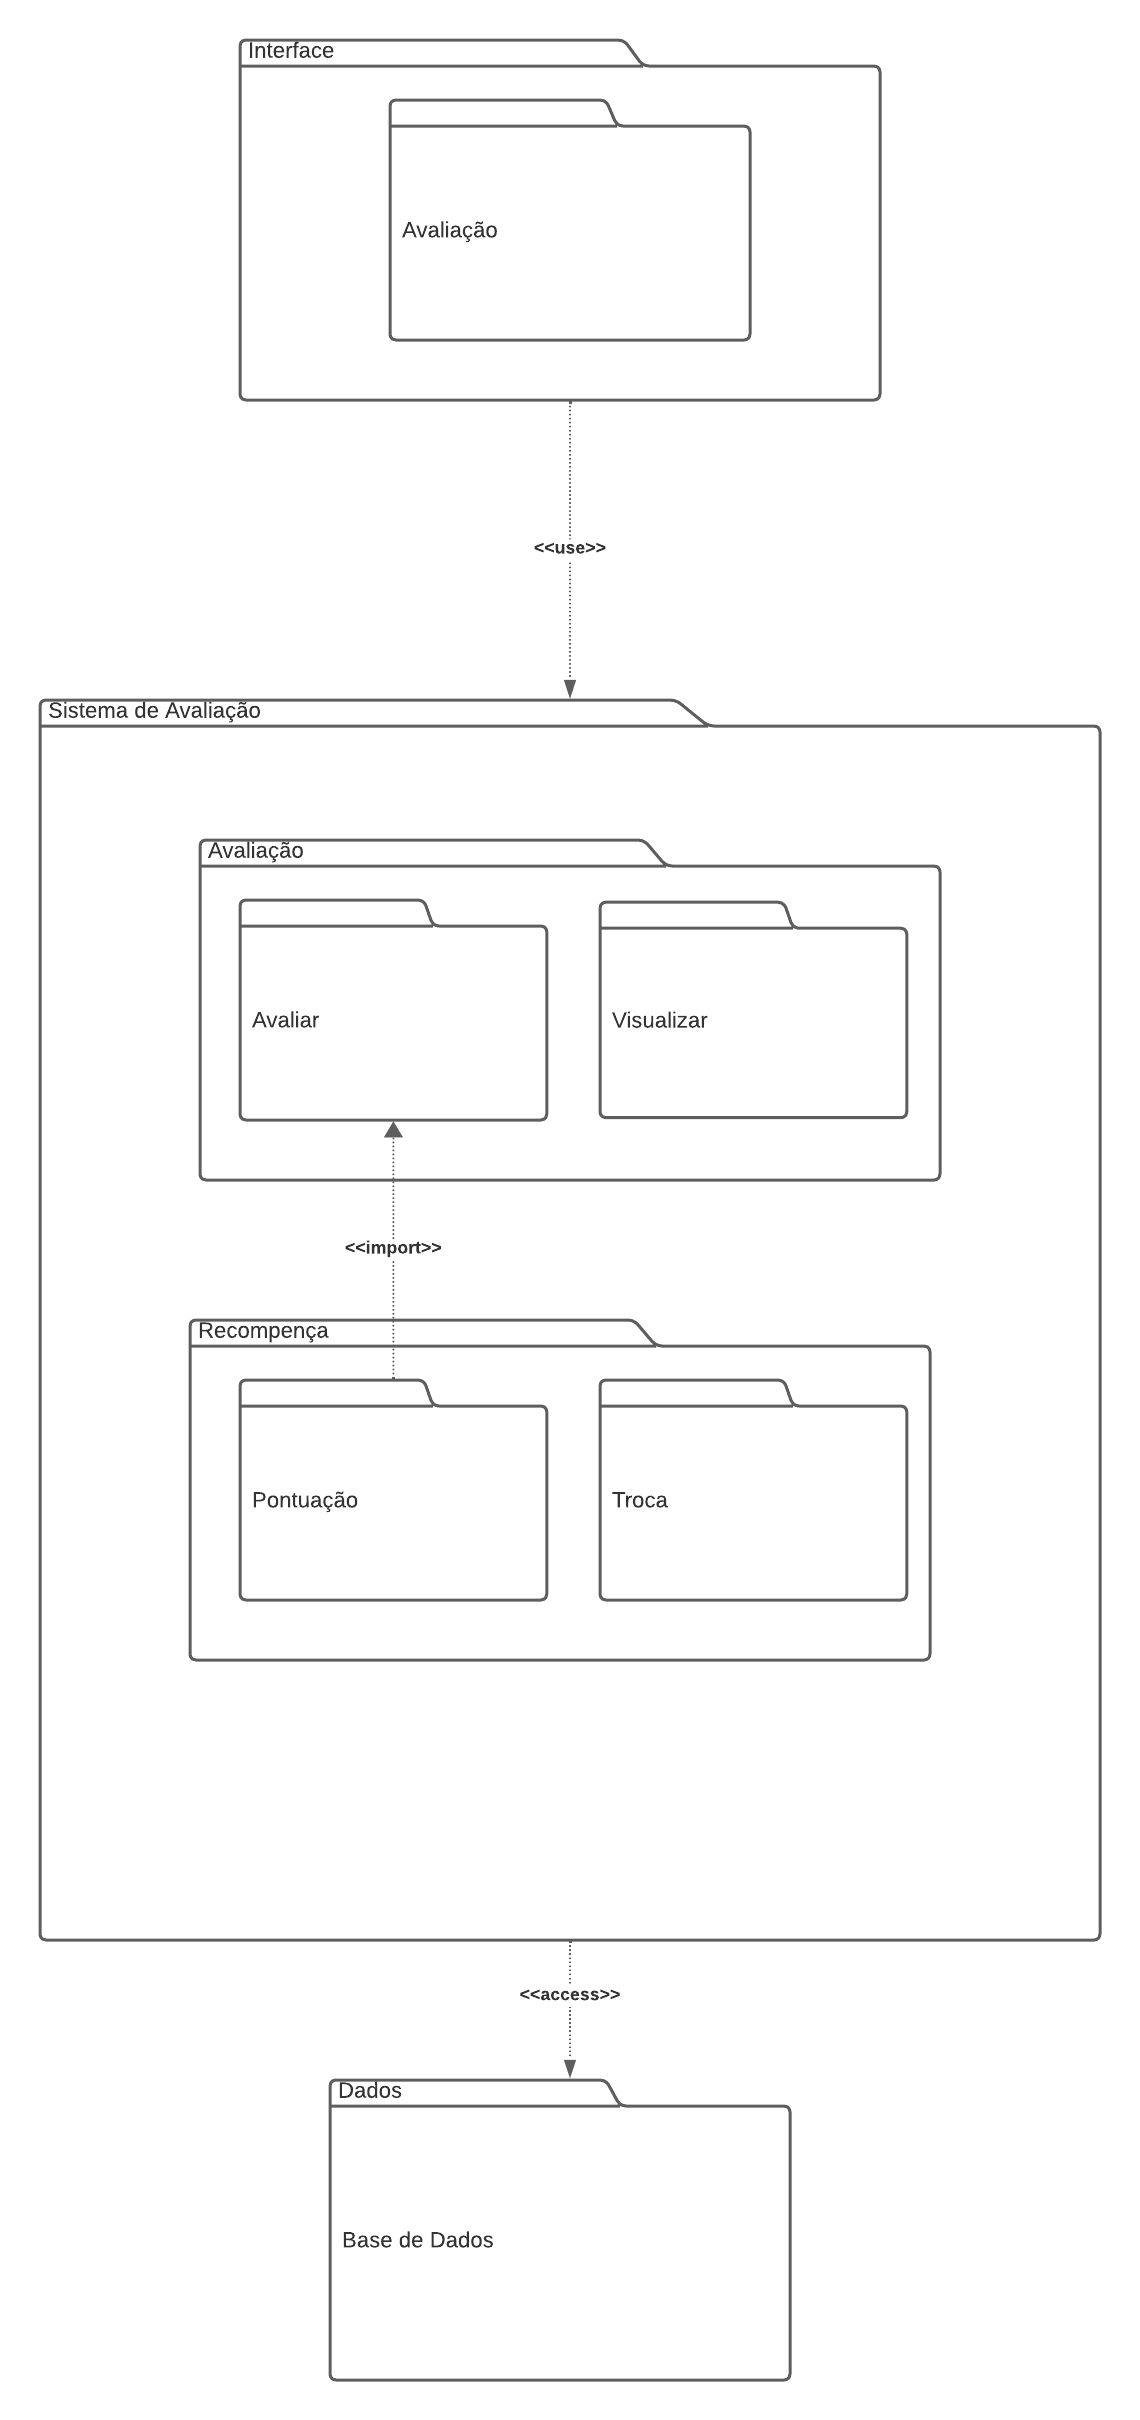
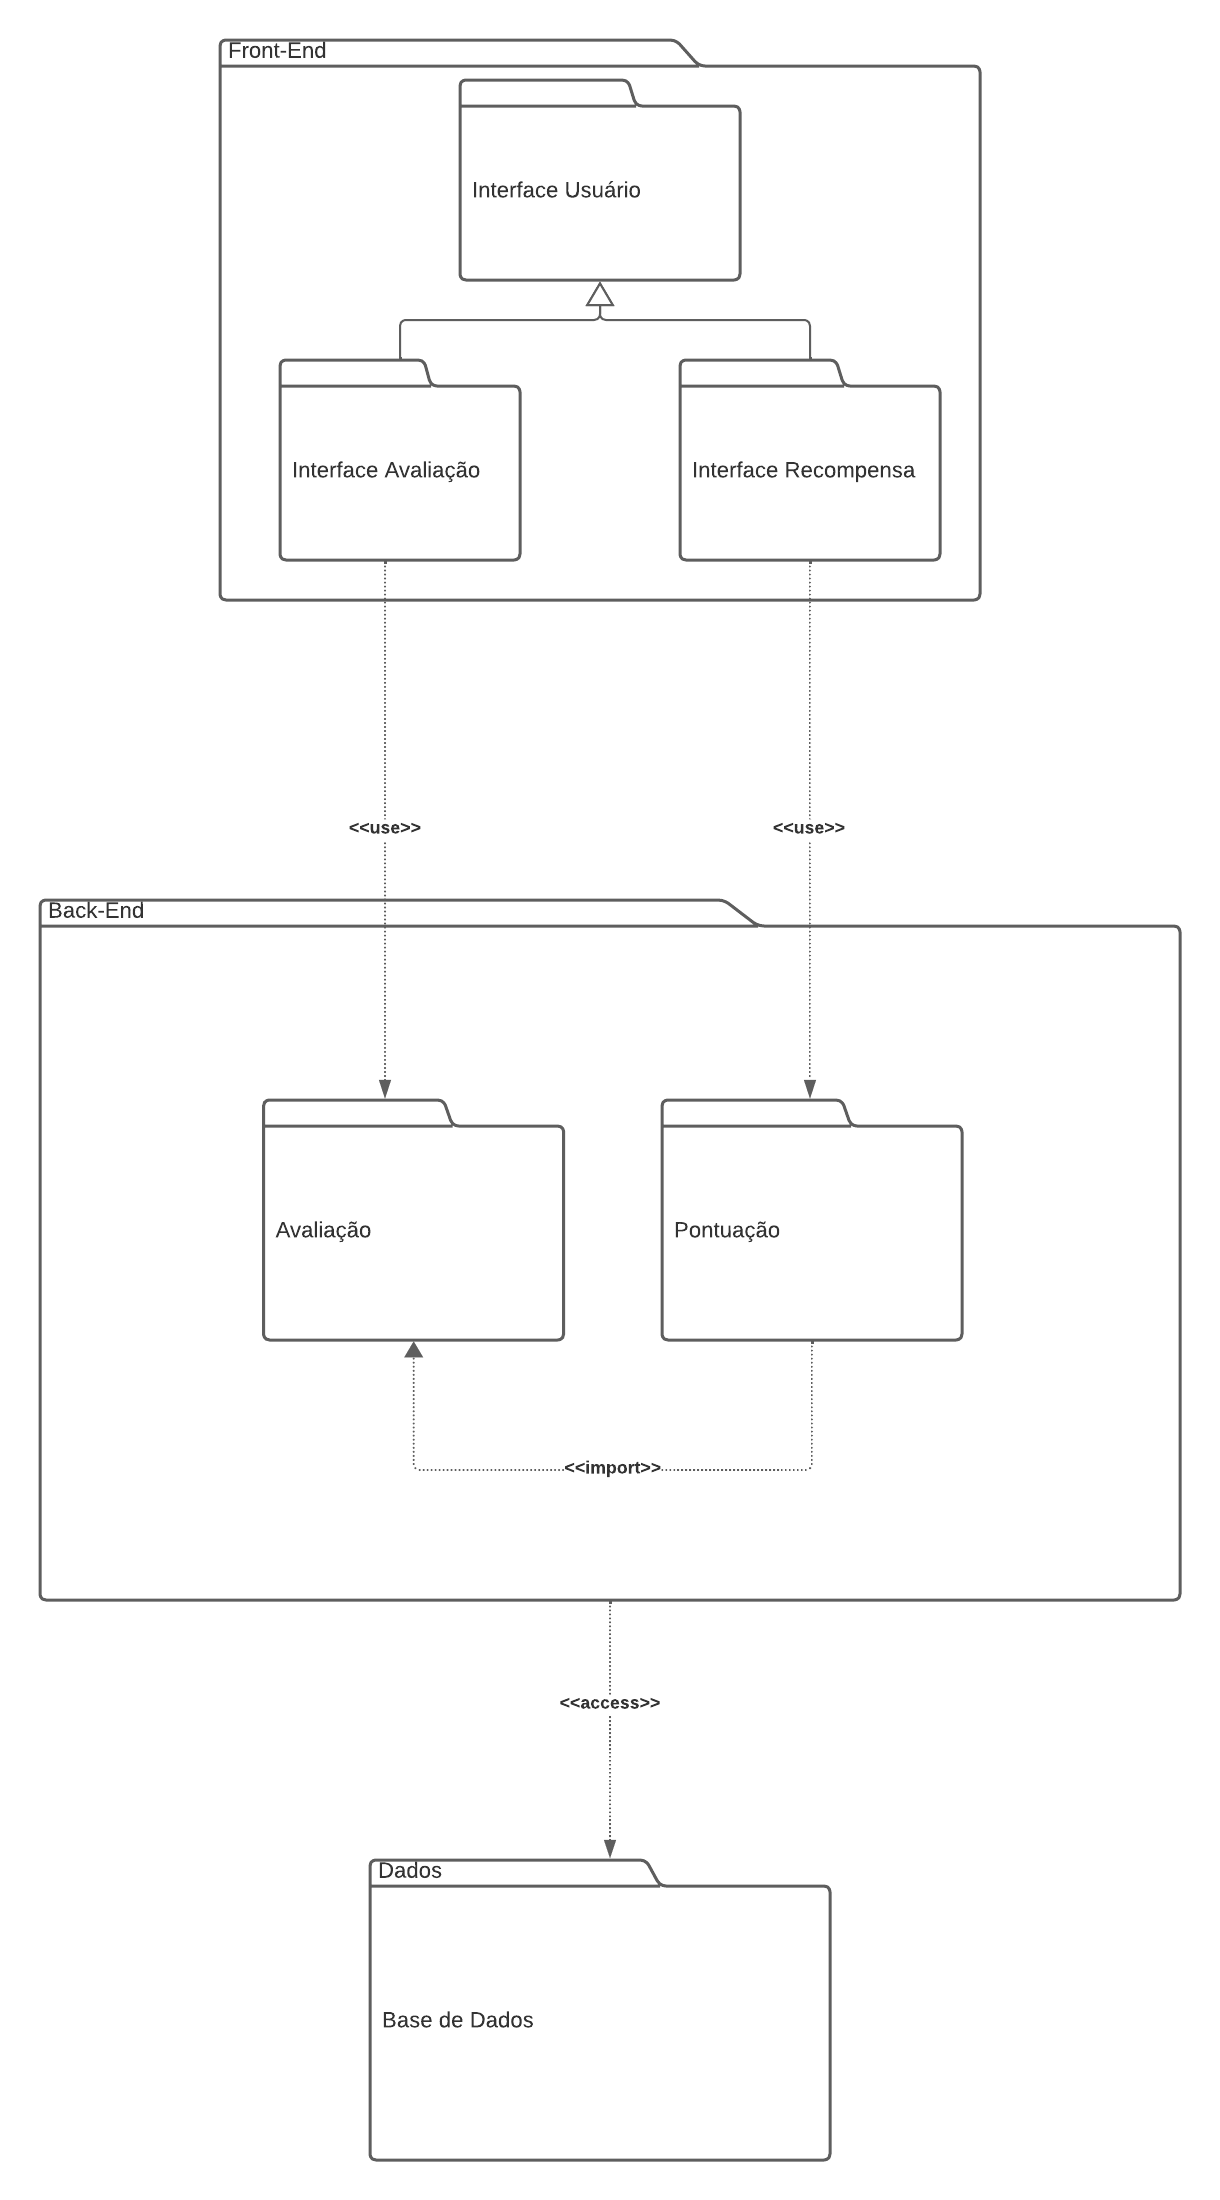
:bug: Corrigi diagrama de pacotes de acordo com os pontos levantados na revisao

diff --git a/docs/Modelagem/Artefatos/DiagramadePacotes.md b/docs/Modelagem/Artefatos/DiagramadePacotes.md
@@ -11,6 +11,7 @@
 | 0.2 | 07/10/2023 | Adição da Introdução, Metodologias e a imagem do Diagrama de Pacotes | Diógenes Júnior e Guilherme |
 | 0.3 | 08/10/2023 | Correção de alguns detalhe da documentação do artefato | Diógenes Júnior e Guilherme |
 | 0.4 | 08/10/2023 | Revisão do artefato: pequenas correções no documento | André Corrêa, Felipe Moura e Gabriel Mariano |
+| 0.5 | 09/10/2023 | Modificação da estrutura do Diagrama de Pacotes | Diógenes Júnior e Guilherme |
 
 *Tabela 1: Versionamento*
 
@@ -39,7 +40,7 @@ O artefato foi criado por dois membros do grupo durante reuniões, tanto presenc
 
 *Tabela 2: Ambiente de criação do artefato Diagrama de Pacotes*
 
-![Diagrama-de-Pacote](../../Assets/Modelagem/Diagrama_de_Pacotes.png)
+![Diagrama-de-Pacote](../../Assets/Modelagem/Diagrama_de_pacotes.png)
 
 *Figura 1: Diagrama de Pacotes*
 
@@ -49,21 +50,17 @@ O artefato foi criado por dois membros do grupo durante reuniões, tanto presenc
 
 O diagrama foi estruturado de acordo com cada camada do sistema
 
-### Interface
+### Front-End
 
 Corresponde ao modelo da aplicação que irá apresentar os dados e as funcionalidades ao usuário. No caso, a interface corresponde a *front-end* do Sistema de Avaliação da *Amazon*.
 
-## Sistema de Avaliação
+No caso, o fluxo possui o pacote Interface Avaliação que corresponde ao front-end destinado a realização das ações ligadas a avaliação (fazer uma avaliação, ler uma avaliação). O pacote Interface Recompensa corresponde ao front-end destinado as recompensas e pontos obitidos na avaliação de um produto. Todos esses pacotes herdam características do Interface Usuário.
+
+### Back-End
 
 Corresponde ao modelo *back-end* da aplicação. Basicamente, utiliza uma *API* para possibilitar a integração entre o *front-end* e a base de dados.
 
-#### Avaliar e Visualizar
-
-Esses pacotes estão ao um mesmo nível de abstração, pois são duas estruturas que o usuário pode utilizar no sistema. No caso em **Avaliar**, o usuário escreve uma avaliação sobre determinado produto e no caso **Visualizar**, o usuário apenas obseerva e analisar outras avaliações.
-
-#### Pontuação e Troca
-
-Esses pacotes importam estruturas de **Avaliar**, pois foi proposto pelo grupo uma nova funcionalidade no Sistema de Avaliação da *Amazon* de recompensar os usuários que avaliam os produtos. Decorrente disso, o pacote **Recompensa** apresenta a **Pontuação** obtida pelos usuários assim como a possibilidade de **Troca** com benefícios ou outros produtos.
+Nesse caso, o pacote Avaliação integra com a Interface Avaliação, referindo-se aos mecanismos estrutural do site que comanda as ações ligadas a Avaliação no sistema. O pacote Pontuação cumpre a mesma função, porém com ações ligadas ao sistema de Recompensa do Site
 
 ## Dados
 
